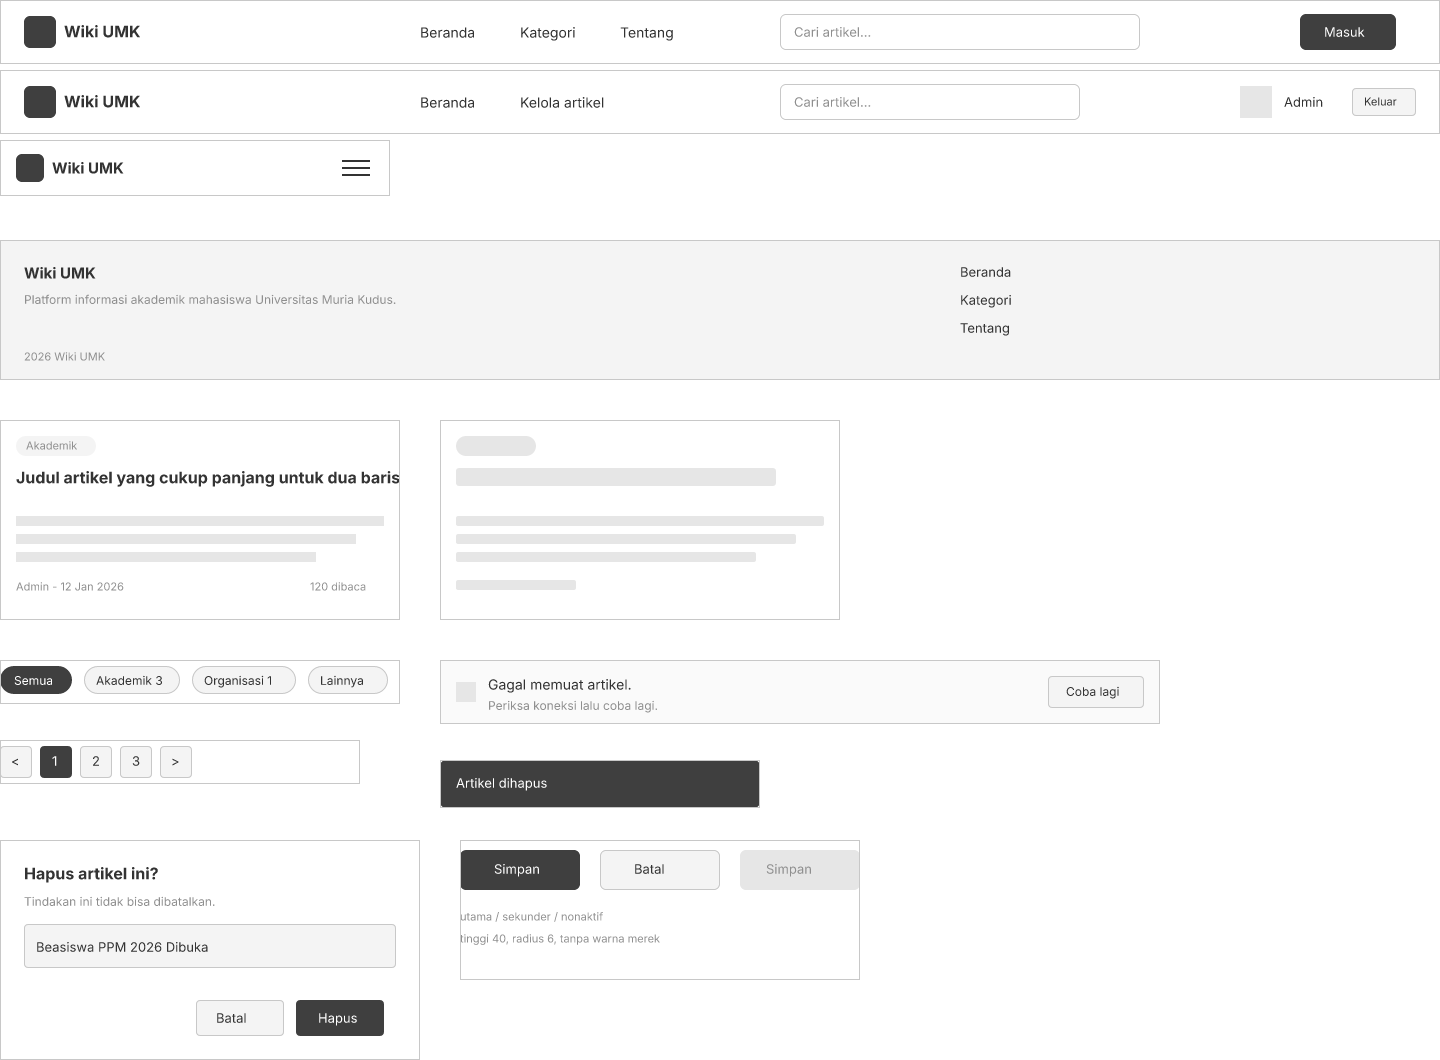
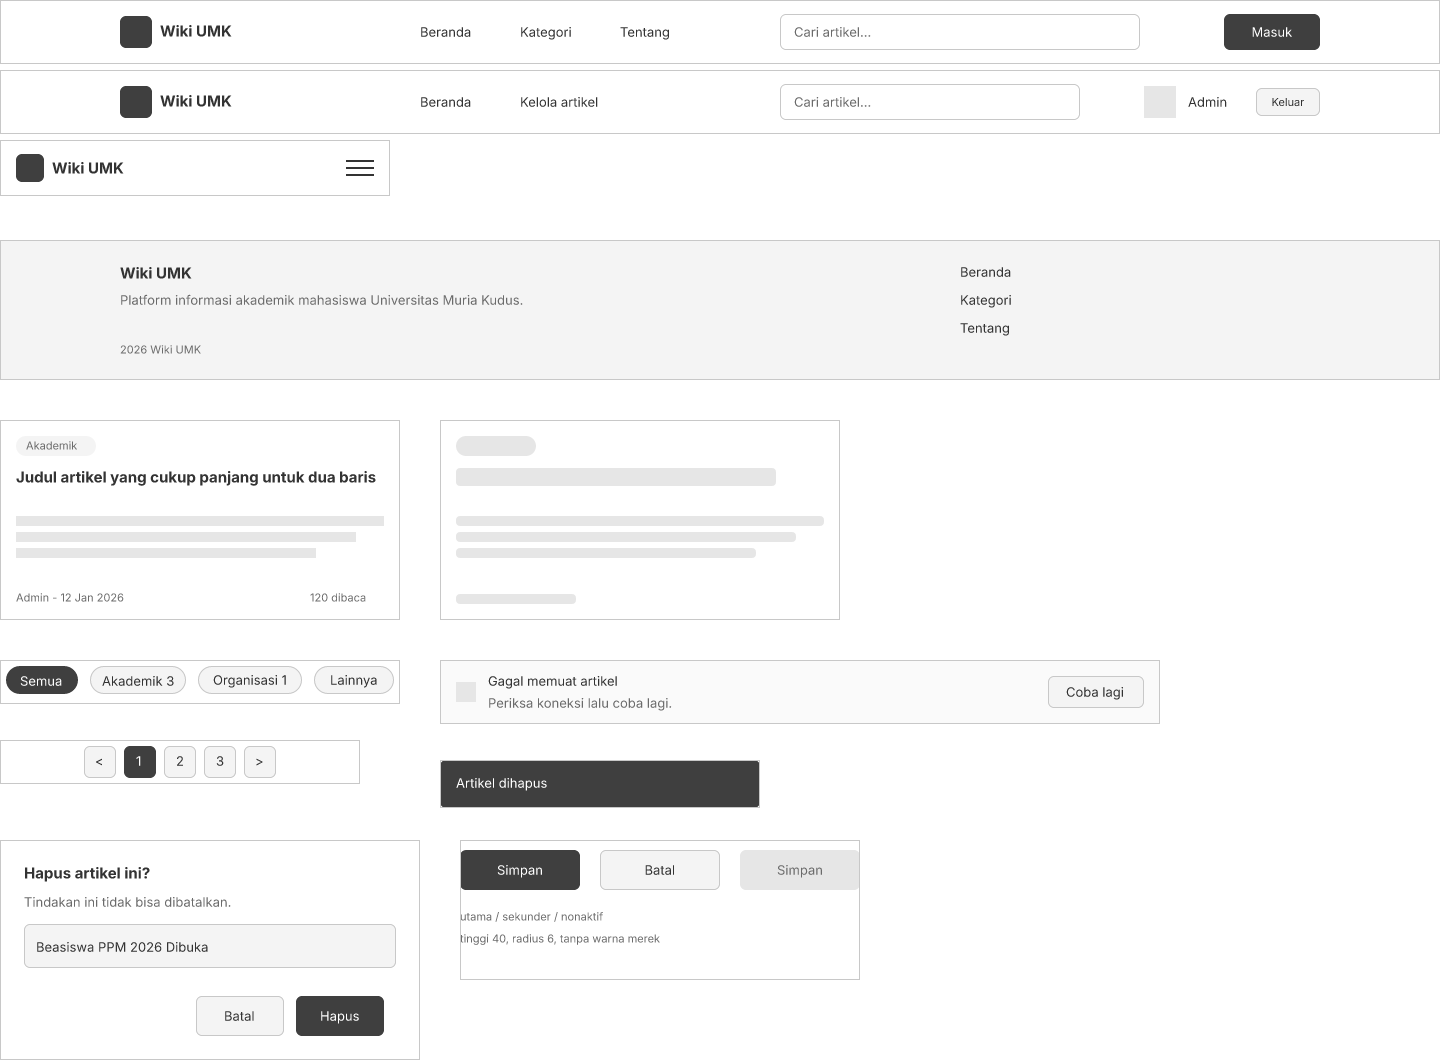
fix: rapikan simetri dan perataan wireframe sprint 1
Perbaikan 12 temuan audit pada 36 bingkai di wikiumk-wireframe.figcraft:

- Paginasi: label kembali sejajar dengan kotaknya (tertinggal saat digeser)
- Halaman 404/403/kosong: judul dan keterangan dipusatkan, sebelumnya
  49-98px ke kiri sementara ikon dan tombol sudah di tengah
- Grid kartu beranda: kolom 136/546/956 -> 120/546/972, kini selebar
  konten halaman (pad 120/120)
- 54 pasangan label tombol dipusatkan di dalam kotaknya
- Navbar dan footer selaras ke grid 120 (HP tetap 16)
- Padding kartu 16/16, footer 24/24, banner gagal 13/13
- Kolom baca artikel dipusatkan: 120..920 -> 320..1120

Tiga PNG diekspor ulang; dimensi tidak berubah.

diff --git a/docs/wireframe-halaman.md b/docs/wireframe-halaman.md
@@ -49,7 +49,7 @@ State yang perlu digambar:
 7. **`/categories` gagal (500).** Chip kategori disembunyikan, daftar artikel tetap jalan. Jangan sampai satu endpoint gagal mematikan seluruh halaman.
 8. **Parameter tidak valid (400).** Terjadi kalau `page` di bawah 1 atau `perPage` di atas 50. Tampilkan pesan singkat dan kembalikan ke halaman 1.
 
-Catatan: `q`, `category`, dan `page` disimpan di query string supaya tautan bisa dibagikan dan tombol back berfungsi.
+Catatan: `q`, `category`, dan `page` disimpan di query string supaya tautan bisa dibagikan dan tombol back berfungsi. Di HP, chip kategori digeser mendatar karena tidak muat dalam satu layar.
 
 ### 2. Detail artikel `/artikel/[slug]`
 
@@ -112,7 +112,7 @@ State:
 2. **Dialog konfirmasi hapus.** Menyebut judul artikel, tombol "Batal" dan "Hapus". Lihat butir 9.
 3. **Hasil hapus.** Sukses (baris hilang, toast "Artikel dihapus"), 404 (artikel sudah dihapus orang lain, beri tahu lalu muat ulang daftar), 403, 401, 500.
 
-Catatan: `GET /articles` mengembalikan `ArticleSummary` yang tidak memuat `readCount` maupun `updatedAt`. Menampilkan dua kolom itu butuh satu permintaan detail per baris. Keputusan K-7 membuang kedua kolom.
+Catatan: `GET /articles` mengembalikan `ArticleSummary` yang tidak memuat `readCount` maupun `updatedAt`. Menampilkan dua kolom itu butuh satu permintaan detail per baris. Keputusan K-7 membuang kedua kolom. Judul di tabel adalah tautan ke halaman detail, sedangkan tombol "Ubah" dan "Hapus" muncul di setiap baris.
 
 ### 7. Buat artikel `/admin/artikel/baru`
 
@@ -129,7 +129,7 @@ Isi form:
 
 State: normal, sedang menyimpan, 400 dengan error per field di bawah masing-masing kolom plus ringkasan di atas form, 401, 403, 500. Tombol "Batal" meminta konfirmasi bila sudah ada ketikan.
 
-Catatan: `ArticleInput` tidak punya field `slug`. Slug dibuat server dari judul, jadi form tidak perlu kolom slug.
+Catatan: `ArticleInput` tidak punya field `slug`. Slug dibuat server dari judul, jadi form tidak perlu kolom slug. Di bawah kolom isi ada satu baris bantuan sintaks markdown: judul, tebal, daftar, dan tautan.
 
 ### 8. Ubah artikel `/admin/artikel/[slug]/ubah`
 
